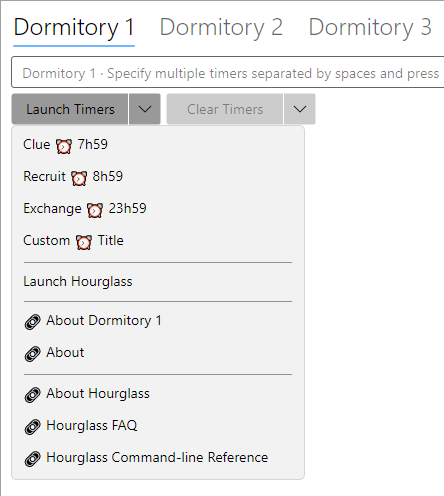
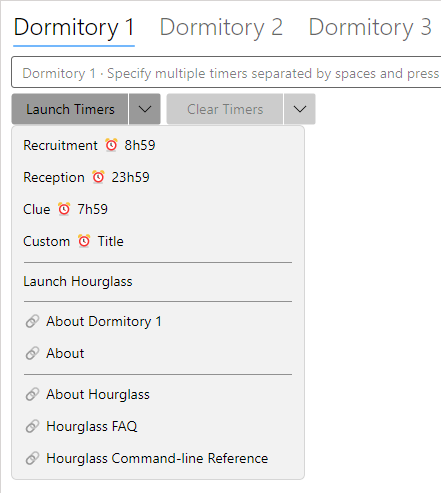
Rename Arknights facilities.

diff --git a/README.md b/README.md
@@ -4,10 +4,10 @@
 [![Latest release](https://img.shields.io/github/downloads/i2van/ArknightsLINQPad/total.svg)](https://github.com/i2van/ArknightsLINQPad/releases/latest)
 [![License](https://img.shields.io/badge/license-MIT-orange)](https://opensource.org/licenses/MIT)
 [![Arknights](https://img.shields.io/badge/arknights-wiki-black)](https://arknights.wiki.gg)
-[![Requires LINQPad](https://img.shields.io/badge/requires-linqpad%208-teal)](https://www.linqpad.net/Download.aspx)
-[![Requires LINQPad Latest Beta](https://img.shields.io/badge/recommended-linqpad%208%20beta-blue)](https://www.linqpad.net/LINQPad8.aspx#beta)
+[![Requires LINQPad](https://img.shields.io/badge/requires-linqpad-teal)](https://www.linqpad.net/Download.aspx)
+[![Requires LINQPad Latest Beta](https://img.shields.io/badge/recommended-linqpad%20beta-blue)](https://www.linqpad.net/linqpad9.aspx#beta)
 
-Collection of the [Arknights](https://arknights.wiki.gg) [LINQPad 8](https://www.linqpad.net) scripts. LINQPad for Windows, macOS (Beta) can be downloaded [here](https://www.linqpad.net/Download.aspx). LINQPad Beta for Windows can be downloaded [here](https://www.linqpad.net/LINQPad8.aspx#beta).
+Collection of the [Arknights](https://arknights.wiki.gg) [LINQPad](https://www.linqpad.net) scripts. LINQPad for Windows or macOS can be downloaded [here](https://www.linqpad.net/Download.aspx) ([beta](https://www.linqpad.net/linqpad9.aspx#beta)).
 
 ## Table of Contents ##
 
@@ -24,12 +24,12 @@ Collection of the [Arknights](https://arknights.wiki.gg) [LINQPad 8](https://www
 
 ## Requirements
 
-[LINQPad 8](https://www.linqpad.net/Download.aspx) or [LINQPad 8 Latest Beta](https://www.linqpad.net/LINQPad8.aspx#beta) (recommended) with the [latest](https://dotnet.microsoft.com/en-us/download/dotnet/latest) [.NET](https://dotnet.microsoft.com/en-us/download/dotnet) installed.
+[LINQPad](https://www.linqpad.net/Download.aspx) or [LINQPad Beta](https://www.linqpad.net/linqpad9.aspx#beta) (recommended) with the [latest](https://dotnet.microsoft.com/en-us/download/dotnet/latest) [.NET](https://dotnet.microsoft.com/en-us/download/dotnet) installed.
 
 ## How to use
 
-1. Download from [releases](https://github.com/i2van/ArknightsLINQPad/releases) or download [`main` branch ZIP](https://github.com/i2van/ArknightsLINQPad/archive/refs/heads/main.zip) or `git clone` repository.
-2. Open [script](#scripts) in the [LINQPad 8](https://www.linqpad.net/Download.aspx).
+1. Download [Arknights LINQPad scripts](https://github.com/i2van/ArknightsLINQPad/releases) for the [ongoing Global event](https://arknights.wiki.gg/wiki/Event#Ongoing).
+2. Open [script](#scripts) in the [LINQPad](https://www.linqpad.net/Download.aspx).
 3. Search (`Ctrl+F`) for all the `TODO:`s and edit as necessary.
 4. Execute.
 
